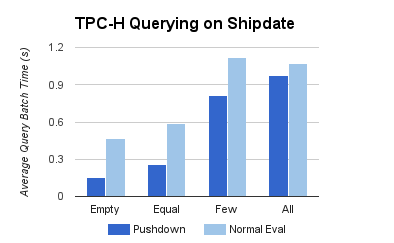
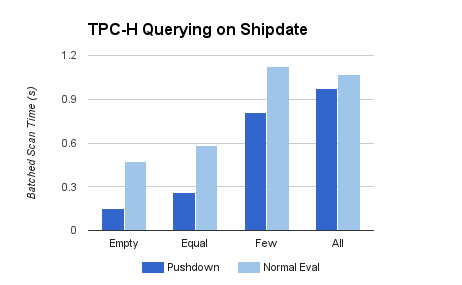
Clarify plain/dict and plots

diff --git a/_posts/predicate-pushdown.md b/_posts/predicate-pushdown.md
@@ -13,13 +13,13 @@ scan path to speed up queries.
 ## Introduction
 
 In Kudu, _predicate pushdown_ refers to the way in which predicates are
-handled. When a scan is requested in Kudu, its predicate is passed through the
-different layers of its storage hierarchy, allowing for pruning and other
+handled. When a scan is requested, its predicates are passed through the
+different layers of Kudu's storage hierarchy, allowing for pruning and other
 optimizations to happen at each level before reaching the underlying data.
 
 While predicates are pushed down, evaluation itself occurs at a fairly high
 level, precluding the evaluation process from certain data-specific
-optimizations, As I will show, these optimizations can make tablet scans 10
+optimizations. As I will show, these optimizations can make tablet scans 10
 times faster, if not more.
 
 ## A Day in the Life of a Query
@@ -39,22 +39,22 @@ predicate on the batch of data and mark which rows should be returned to the
 client.
 
 One of the encoding types I worked very closely with is _dictionary encoding_,
-an encoding type for strings that performs particularly well for columns that
+an encoding type for strings that performs particularly well for cfiles that
 have repeating values. Rather than storing every row’s string, each unique
-string is assigned a numeric codeword, and the column is stored numerically
-on disk. When materializing a dictionary block, all of the numeric data are
-scanned and all of the corresponding strings are buffered for evaluation. When
-the vocabulary of a dictionary-encoded block gets too large, Kudu will
-automatically switch to _plain encoding_.
+string is assigned a numeric codeword, and the rows are stored numerically on
+disk. When materializing a dictionary block, all of the numeric data are scanned
+and all of the corresponding strings are buffered for evaluation. When the
+vocabulary of a dictionary-encoded cfile gets too large, the blocks begin
+switching to _plain encoding mode_ to act like a _plain-encoded_ block.
 
-In plain-encoded blocks, strings are stored back-to-back, and the character
-offsets to the start of each word are stored as a list of integers. When
+In a plain-encoded block, strings are stored contiguously and the character
+offsets to the start of each string are stored as a list of integers. When
 materializing, all of the strings are copied to a buffer for evaluation.
 
 Therein lies room for improvement: this predicate evaluation path is the same
 for all data types and encoding types. Within the tablet, the correct cfiles
 are determined, the cfiles’ decoders are opened, all of the data are copied to
-a buffer, and the predicate is evaluated on this buffered data via
+a buffer, and the predicates are evaluated on this buffered data via
 type-specific comparators. This path is extremely flexible, but because it was
 designed to be encoding-independent, there is room for improvement.
 
@@ -67,24 +67,24 @@ query, which in turn, allows the decoders to determine what data gets copied
 instead of eagerly copying all of its data to get evaluated.
 
 Take the case of dictionary-encoded strings as an example. With the existing
-scan path, not only are all of the strings in a column copied into a buffer,
-but string comparisons are done on every row. By taking advantage of the fact
-that the data can be represented as integers, the cost of determining the query
-results can be greatly reduced. The string comparisons can be swapped out
-with evaluation based on the codewords, in which case the room for improvement
-then boils down to how to most quickly determine whether or not a given
-codeword corresponds to a string that satisfies the predicate. Dictionary
-columns will now use a bitset to store the codewords that match the predicates.
-It will then scan through the integer-valued data and checks the bitset to
-determine whether it should copy the corresponding string over.
+scan path, not only are all of the strings in a column copied into a buffer, but
+string comparisons are done on every row. By taking advantage of the fact that
+the data can be represented as integers, the cost of determining the query
+results can be greatly reduced. The string comparisons can be swapped out with
+evaluation based on the codewords, in which case the room for improvement boils
+down to how to most quickly determine whether or not a given codeword
+corresponds to a string that satisfies the predicate. Dictionary columns will
+now use a bitset to store the codewords that match the predicates.  It will then
+scan through the integer-valued data and checks the bitset to determine whether
+it should copy the corresponding string over.
 
-This is great in the best case scenario where a column’s dictionary is small,
-but when there are too many unique values to fit in a dictionary, performance
-suffers. The plain decoders don’t utilize any dictionary metadata and ends up
-wasting the codeword bitset. That isn’t to say all is lost: plain decoders can
-still evaluate a predicate via string comparison, and the fact that evaluation
-can still occur at the decoder-level means the eager buffering can still be
-avoided.
+This is great in the best case scenario where a cfile’s vocabulary is small,
+but when the vocabulary gets too large and the dictionary blocks switch to plain
+encoding mode, performance is hampered. In this mode, the blocks don’t utilize
+any dictionary metadata and end up wasting the codeword bitset. That isn’t to
+say all is lost: the decoders can still evaluate a predicate via string
+comparison, and the fact that evaluation can still occur at the decoder-level
+means the eager buffering can still be avoided.
 
 Dictionary encoding is a perfect storm in that the decoders can completely
 evaluate the predicates. This is not the case for most other encoding types,
@@ -96,21 +96,21 @@ Depending on the dataset and query, predicate pushdown can lead to significant
 improvements. Tablet scans were timed with datasets consisting of repeated
 string patterns of tunable length and tunable cardinality.
 
-![png](https://raw.githubusercontent.com/anjuwong/kudu/10b9ac14915d991463bfd42d1126b61ac53c1df4/img/predicate-pushdown/pushdown-10.png)
-![png](https://raw.githubusercontent.com/anjuwong/kudu/10b9ac14915d991463bfd42d1126b61ac53c1df4/img/predicate-pushdown/pushdown-10M.png)
+![png](https://github.com/anjuwong/kudu/blob/gh-pages-staging/img/predicate-pushdown/pushdown-10.png)
+![png](https://github.com/anjuwong/kudu/blob/gh-pages-staging/img/predicate-pushdown/pushdown-10M.png)
 
-The above plots show the time taken to scan a single tablet, recorded using a
-dataset of ten million rows of strings with length ten. Predicates were designed
-to select values out of bounds (Empty), select a single value (Equal, i.e. for
-cardinality _k_, this would select 1/_k_ of the dataset), select half of the
-full range (Half), and select the full range of values (All).
+The above plots show the time taken to completely scan a single tablet, recorded
+using a dataset of ten million rows of strings with length ten. Predicates were
+designed to select values out of bounds (Empty), select a single value (Equal,
+i.e. for cardinality _k_, this would select 1/_k_ of the dataset), select half
+of the full range (Half), and select the full range of values (All).
 
 With the original evaluation implementation, the tablet must copy and scan
 through the tablet to determine whether any values match. This means that even
 when the result set is small, the full column is still copied. This is avoided
 by pushing down predicates, which only copies as needed, and can be seen in the
 above queries: those with near-empty result sets (Empty and Equal) have shorter
-scan times than those with larger result sets (Half and Full).
+scan times than those with larger result sets (Half and All).
 
 Note that for dictionary encoding, given a low cardinality, Kudu can completely
 rely on the dictionary codewords to evaluate, making the query significantly
@@ -118,14 +118,15 @@ faster. At higher cardinalities, the dictionaries completely fill up and the
 blocks fall back on plain encoding. The slower, albeit still improved,
 performance on the dataset containing 10M unique values reflects this.
 
-![png](https://raw.githubusercontent.com/anjuwong/kudu/10b9ac14915d991463bfd42d1126b61ac53c1df4/img/predicate-pushdown/pushdown-tpch.png)
+![png](https://github.com/anjuwong/kudu/blob/gh-pages-staging/img/predicate-pushdown/pushdown-tpch.png)
 
 Similar predicates were run with the TPC-H dataset, querying on the shipdate
-column. The full path of a query consists not only of the tablet scanning
-itself, but also RPCs and data transfer to the caller. Regardless, significant
-improvements on the scan path still yield substantial improvements to the query
-as a whole. The above demonstrates the end-to-end behavior of decoder-level
-evaluation.
+column. The full path of a query includes not only the tablet scanning itself,
+but also RPCs and batched data transfer to the caller as the scan progresses.
+As such, the times plotted above refer to the average end-to-end time required
+to scan and return a batch of rows. Regardless of this additional overhead,
+significant improvements on the scan path still yield substantial improvements
+to the query performance as a whole.
 
 ## Conclusion
 
@@ -141,6 +142,6 @@ This summer has been a phenomenal learning experience for me, in terms of the
 tools, the workflow, the datasets, the thought-processes that go into building
 something at Kudu’s scale. I am extremely thankful for all of the mentoring and
 support I received, and that I got to be a part of Kudu’s journey from
-incubating to Top Level Apache project to 1.0. I can’t express enough how
+incubating to a Top Level Apache project to 1.0. I can’t express enough how
 grateful I am for the amount of support I got from the Kudu team, from the
 intern coordinators, and from the Cloudera community as a whole.
